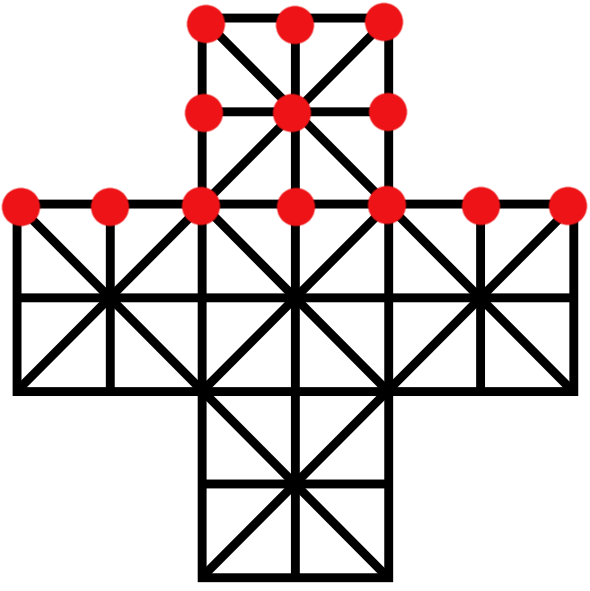
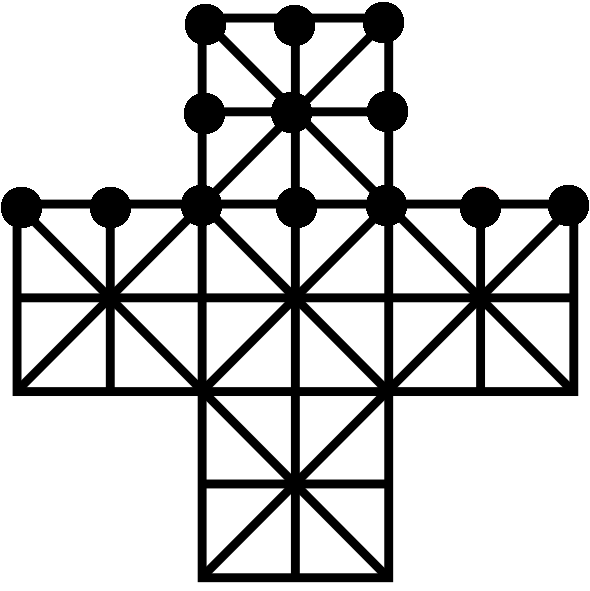
Changed geese from red to black

diff --git a/2016/09/18/basic-brandub/index.html b/2016/09/18/basic-brandub/index.html
@@ -113,7 +113,7 @@ Available for <a href="https://www.etsy.com/listing/485250523/hnefatafl-brandub"
 
       <footer class="footer">
         <small>
-          &copy; <time datetime="2017-05-17T20:34:20-07:00">2017</time>. All rights reserved.
+          &copy; <time datetime="2017-05-17T23:03:41-07:00">2017</time>. All rights reserved.
         </small>
       </footer>
 

diff --git a/2016/09/19/what-is-hnefatafl/index.html b/2016/09/19/what-is-hnefatafl/index.html
@@ -123,7 +123,7 @@ Hnefatafl is not a game most people know about.  But it’s certainly a game tha
 
       <footer class="footer">
         <small>
-          &copy; <time datetime="2017-05-17T20:34:20-07:00">2017</time>. All rights reserved.
+          &copy; <time datetime="2017-05-17T23:03:41-07:00">2017</time>. All rights reserved.
         </small>
       </footer>
 

diff --git a/2016/10/07/lewis-chessmen-unmasked-review/index.html b/2016/10/07/lewis-chessmen-unmasked-review/index.html
@@ -106,7 +106,7 @@ Though it is a pale substitute for viewing the chessmen in real life, it does a 
 
       <footer class="footer">
         <small>
-          &copy; <time datetime="2017-05-17T20:34:20-07:00">2017</time>. All rights reserved.
+          &copy; <time datetime="2017-05-17T23:03:41-07:00">2017</time>. All rights reserved.
         </small>
       </footer>
 

diff --git a/2016/10/12/how-to-play-fetlar-hnefatafl/index.html b/2016/10/12/how-to-play-fetlar-hnefatafl/index.html
@@ -133,7 +133,7 @@ The attacker pieces surround the defenders along the perimeter of the board.</p>
 
       <footer class="footer">
         <small>
-          &copy; <time datetime="2017-05-17T20:34:20-07:00">2017</time>. All rights reserved.
+          &copy; <time datetime="2017-05-17T23:03:41-07:00">2017</time>. All rights reserved.
         </small>
       </footer>
 

diff --git a/2016/10/24/diy-brandub/index.html b/2016/10/24/diy-brandub/index.html
@@ -118,7 +118,7 @@ found in hobby stores for decorative purposes.  <a href="http://www.hobbylobby.c
 
       <footer class="footer">
         <small>
-          &copy; <time datetime="2017-05-17T20:34:20-07:00">2017</time>. All rights reserved.
+          &copy; <time datetime="2017-05-17T23:03:41-07:00">2017</time>. All rights reserved.
         </small>
       </footer>
 

diff --git a/2016/11/06/how-to-play-sea-battle-tafl/index.html b/2016/11/06/how-to-play-sea-battle-tafl/index.html
@@ -131,7 +131,7 @@ The attacker/pirate ship pieces surround the defenders making a cross symbol.</p
 
       <footer class="footer">
         <small>
-          &copy; <time datetime="2017-05-17T20:34:20-07:00">2017</time>. All rights reserved.
+          &copy; <time datetime="2017-05-17T23:03:41-07:00">2017</time>. All rights reserved.
         </small>
       </footer>
 

diff --git a/2016/12/31/how-to-play-fanorona/index.html b/2016/12/31/how-to-play-fanorona/index.html
@@ -130,7 +130,7 @@ game alquerque, the unique capturing methods makes it stand solidly on its own.<
 
       <footer class="footer">
         <small>
-          &copy; <time datetime="2017-05-17T20:34:20-07:00">2017</time>. All rights reserved.
+          &copy; <time datetime="2017-05-17T23:03:41-07:00">2017</time>. All rights reserved.
         </small>
       </footer>
 

diff --git a/2017/02/20/how-to-play-french-military-game/index.html b/2017/02/20/how-to-play-french-military-game/index.html
@@ -126,7 +126,7 @@ the game “combines extreme simplicity with extraordinary strategic subtley.”
 
       <footer class="footer">
         <small>
-          &copy; <time datetime="2017-05-17T20:34:20-07:00">2017</time>. All rights reserved.
+          &copy; <time datetime="2017-05-17T23:03:41-07:00">2017</time>. All rights reserved.
         </small>
       </footer>
 

diff --git a/page10/index.html b/page10/index.html
@@ -116,7 +116,7 @@ The attacker pieces surround the defenders along the perimeter of the board.</p>
 
       <footer class="footer">
         <small>
-          &copy; <time datetime="2017-05-17T20:34:20-07:00">2017</time>. All rights reserved.
+          &copy; <time datetime="2017-05-17T23:03:41-07:00">2017</time>. All rights reserved.
         </small>
       </footer>
 

diff --git a/page14/index.html b/page14/index.html
@@ -106,7 +106,7 @@ Hnefatafl is not a game most people know about.  But it’s certainly a game tha
 
       <footer class="footer">
         <small>
-          &copy; <time datetime="2017-05-17T20:34:20-07:00">2017</time>. All rights reserved.
+          &copy; <time datetime="2017-05-17T23:03:41-07:00">2017</time>. All rights reserved.
         </small>
       </footer>
 

diff --git a/page5/index.html b/page5/index.html
@@ -109,7 +109,7 @@ the game “combines extreme simplicity with extraordinary strategic subtley.”
 
       <footer class="footer">
         <small>
-          &copy; <time datetime="2017-05-17T20:34:20-07:00">2017</time>. All rights reserved.
+          &copy; <time datetime="2017-05-17T23:03:41-07:00">2017</time>. All rights reserved.
         </small>
       </footer>
 

diff --git a/page6/index.html b/page6/index.html
@@ -113,7 +113,7 @@ game alquerque, the unique capturing methods makes it stand solidly on its own.<
 
       <footer class="footer">
         <small>
-          &copy; <time datetime="2017-05-17T20:34:20-07:00">2017</time>. All rights reserved.
+          &copy; <time datetime="2017-05-17T23:03:41-07:00">2017</time>. All rights reserved.
         </small>
       </footer>
 
